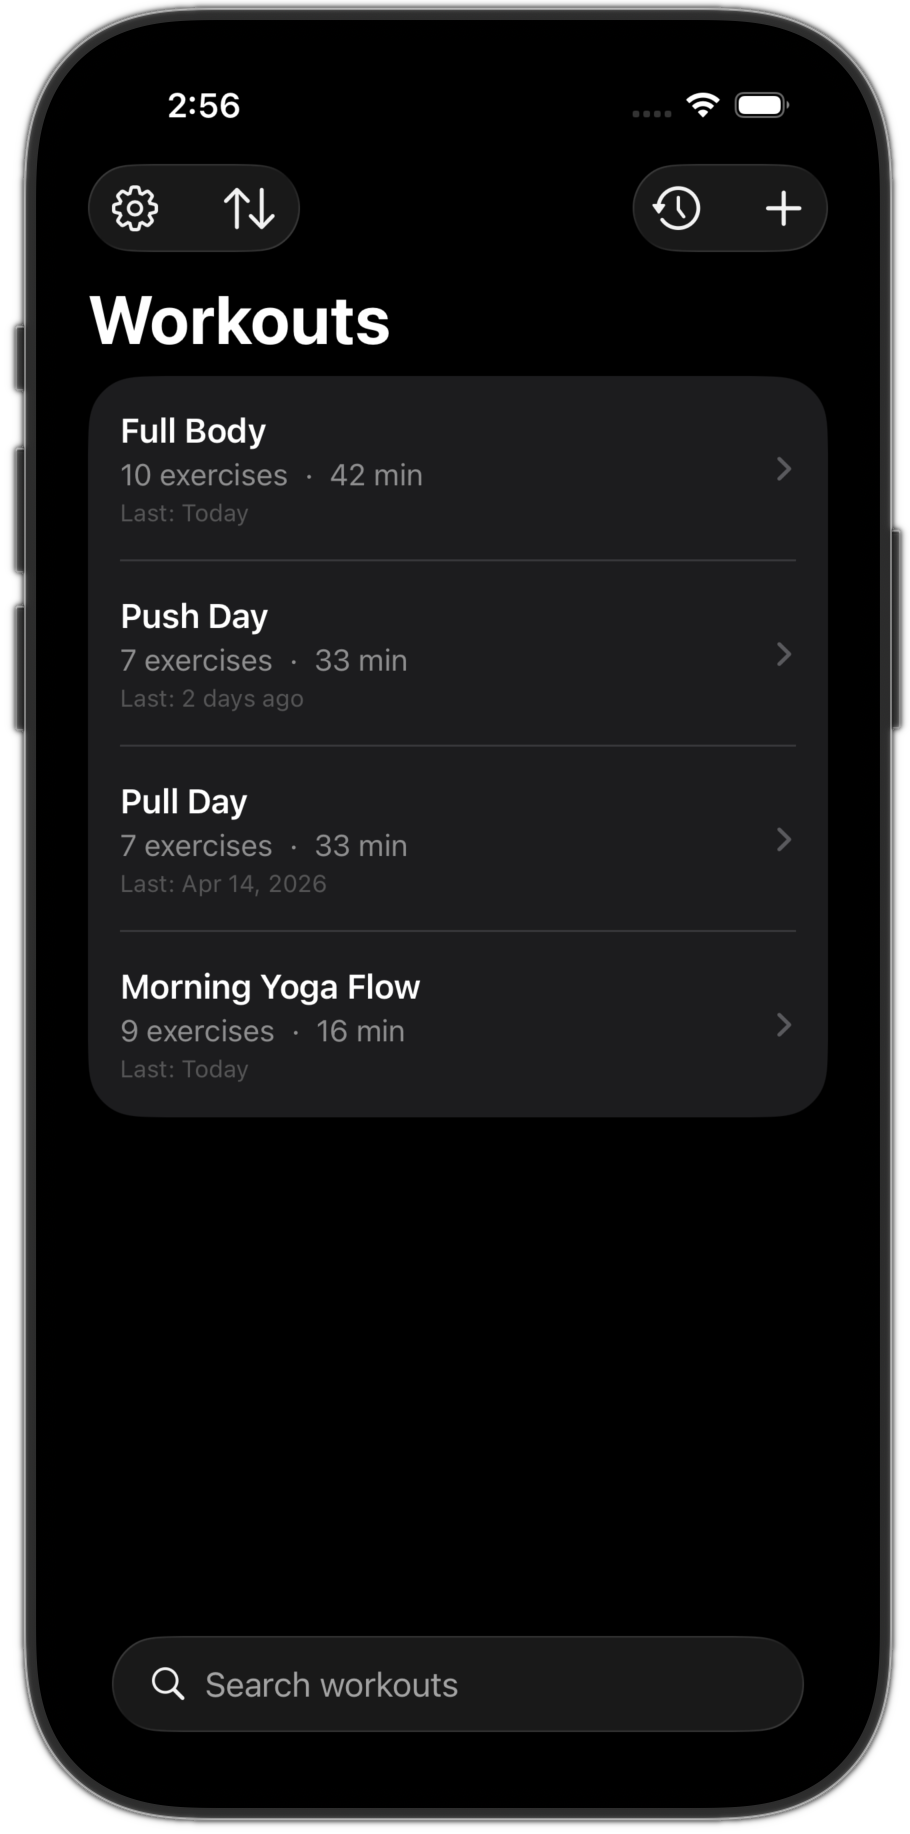
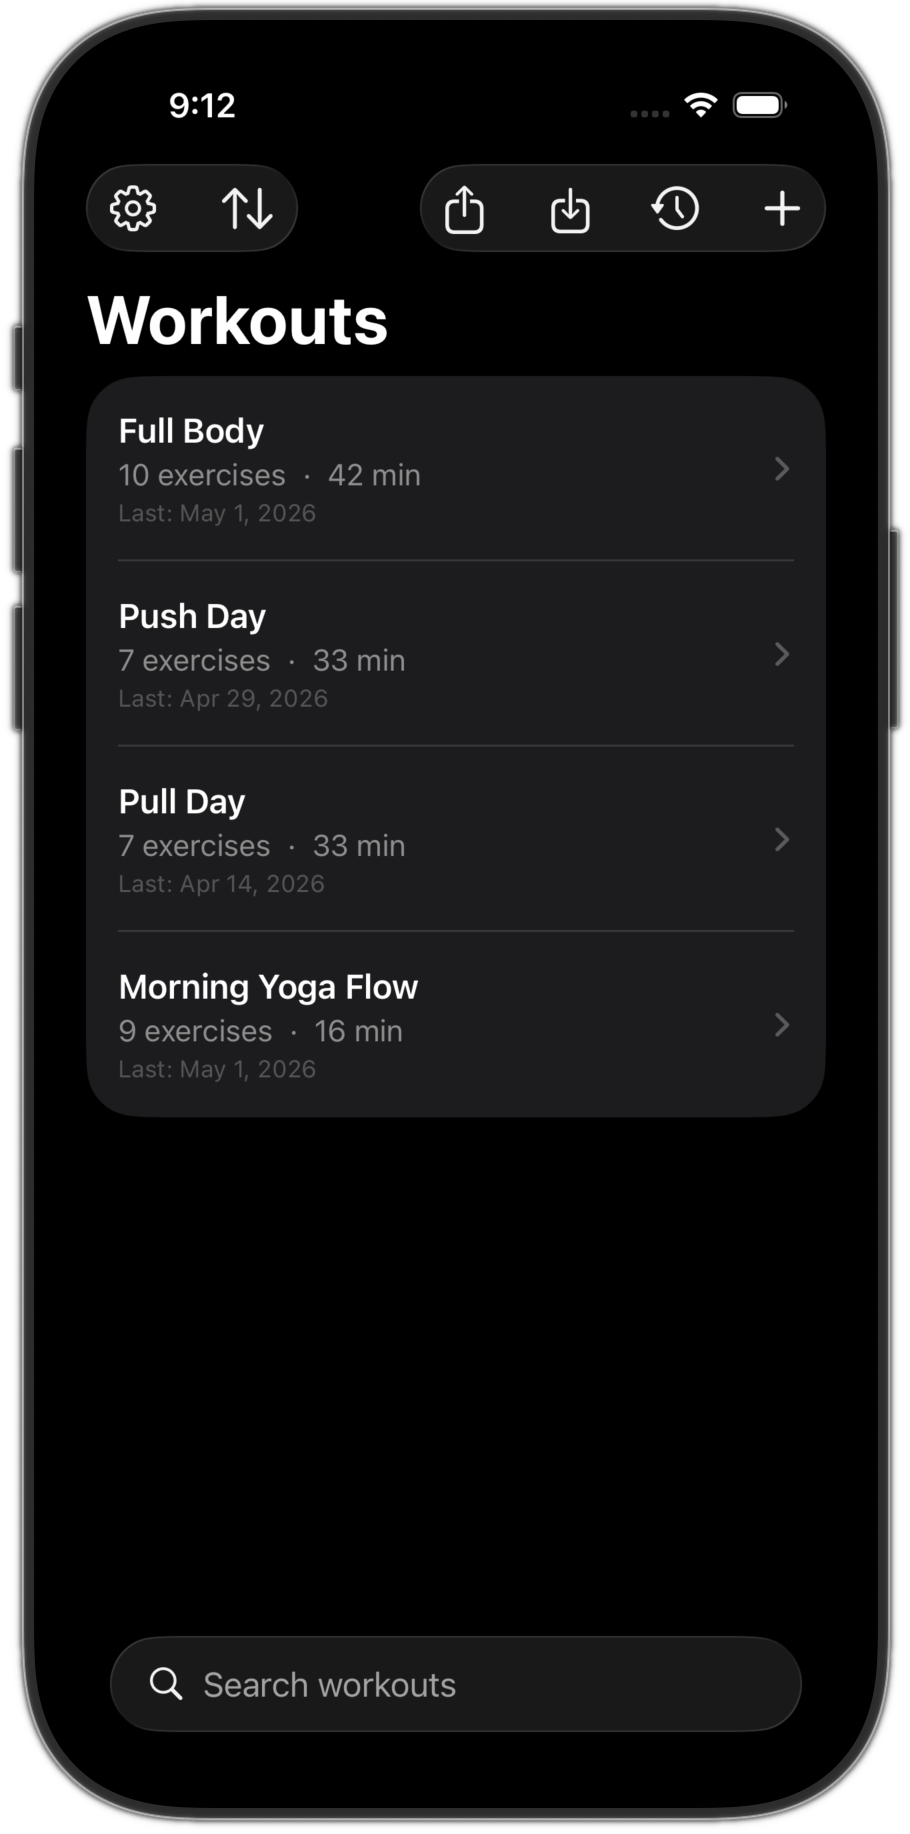
Update site for V1.9.0: add sharing copy and updated showcase screenshot

diff --git a/index.html b/index.html
@@ -951,7 +951,7 @@
                 <div class="feature-text">
                     <span class="feature-label">Feature</span>
                     <h2 class="feature-headline">Your routine. Built once. Ready forever.</h2>
-                    <p class="feature-body">Create custom workouts with any mix of timed holds, rep sets, and rest periods. Choose from a built-in library of 950+ exercises across strength, yoga, and mobility, or add your own. Gym day, yoga flow, bodyweight circuit — one app handles all of it. Switch between System, Light, or Dark mode to match your style.</p>
+                    <p class="feature-body">Create custom workouts with any mix of timed holds, rep sets, and rest periods. Choose from a built-in library of 950+ exercises across strength, yoga, and mobility, or add your own. Gym day, yoga flow, bodyweight circuit — one app handles all of it. Switch between System, Light, or Dark mode to match your style. Share any workout via AirDrop, Messages, or Files — across your devices or with friends.</p>
                 </div>
             </div>
         </section>
